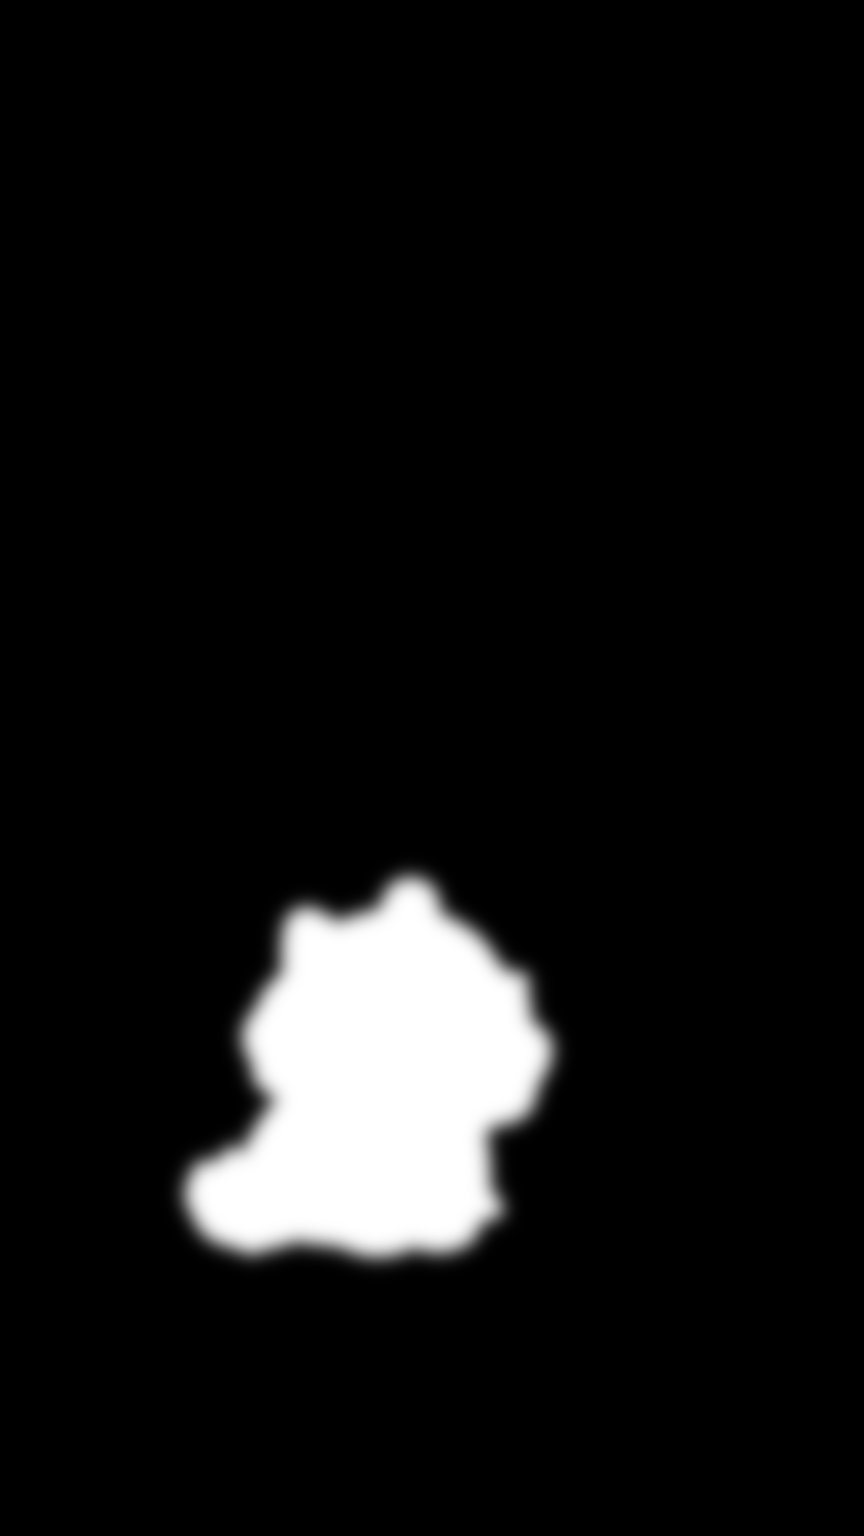
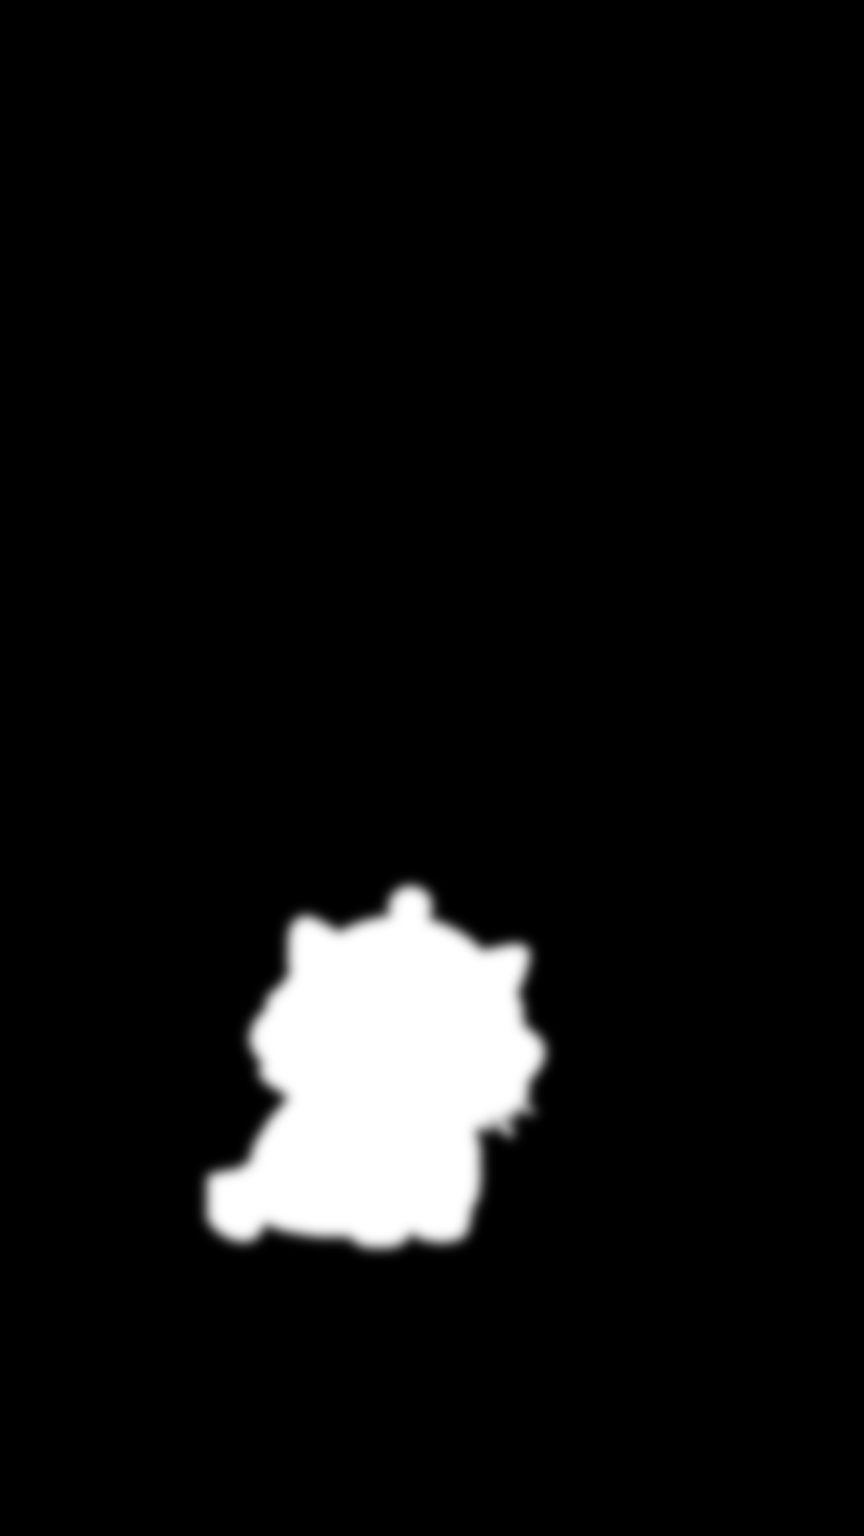
cherry2: protect map from the codex ear-inclusive cat cutout
Replace the dilated-mask protect with one driven by the codex cat matte (which traces
both ears), so the protected zone follows the true cat silhouette precisely (tiny 3px
safety margin) instead of a guessed dilation. Ears intact at both extreme corners.

Changed region(s): [[0.1875, 0.5625, 0.6562, 0.8438]]

diff --git a/index.html b/index.html
@@ -11,7 +11,7 @@
     <meta name="apple-mobile-web-app-title" content="Cat Lock" />
     <meta name="apple-mobile-web-app-status-bar-style" content="black-translucent" />
     <link rel="manifest" href="./manifest.webmanifest" />
-    <link rel="stylesheet" href="./style.css?v=mesh-46" />
+    <link rel="stylesheet" href="./style.css?v=mesh-47" />
     <title>Cat Depth Lock</title>
     <script type="importmap">
       {
@@ -55,6 +55,6 @@
     </main>
 
     <script src="https://unpkg.com/lucide@0.468.0/dist/umd/lucide.min.js" defer></script>
-    <script type="module" src="./app.js?v=mesh-46"></script>
+    <script type="module" src="./app.js?v=mesh-47"></script>
   </body>
 </html>

diff --git a/app.js b/app.js
@@ -19,7 +19,7 @@ const sceneParam = new URLSearchParams(location.search).get("scene");
 const P3D = sceneParam ? `./assets/photo3d_${sceneParam}/` : "./assets/photo3d/";
 // asset cache-buster: bump on any rebuilt PNG so phones don't serve a stale image
 // (index.html's ?v= only refreshes the code, not these depth/colour PNGs).
-const AV = "?a=ch2L";
+const AV = "?a=ch2p";
 // core layers always present; protect.png (v2) / subject.png (v3 soft-LDI) are
 // loaded optionally and decide which front-layer path runs (see below).
 const ASSETS = {
